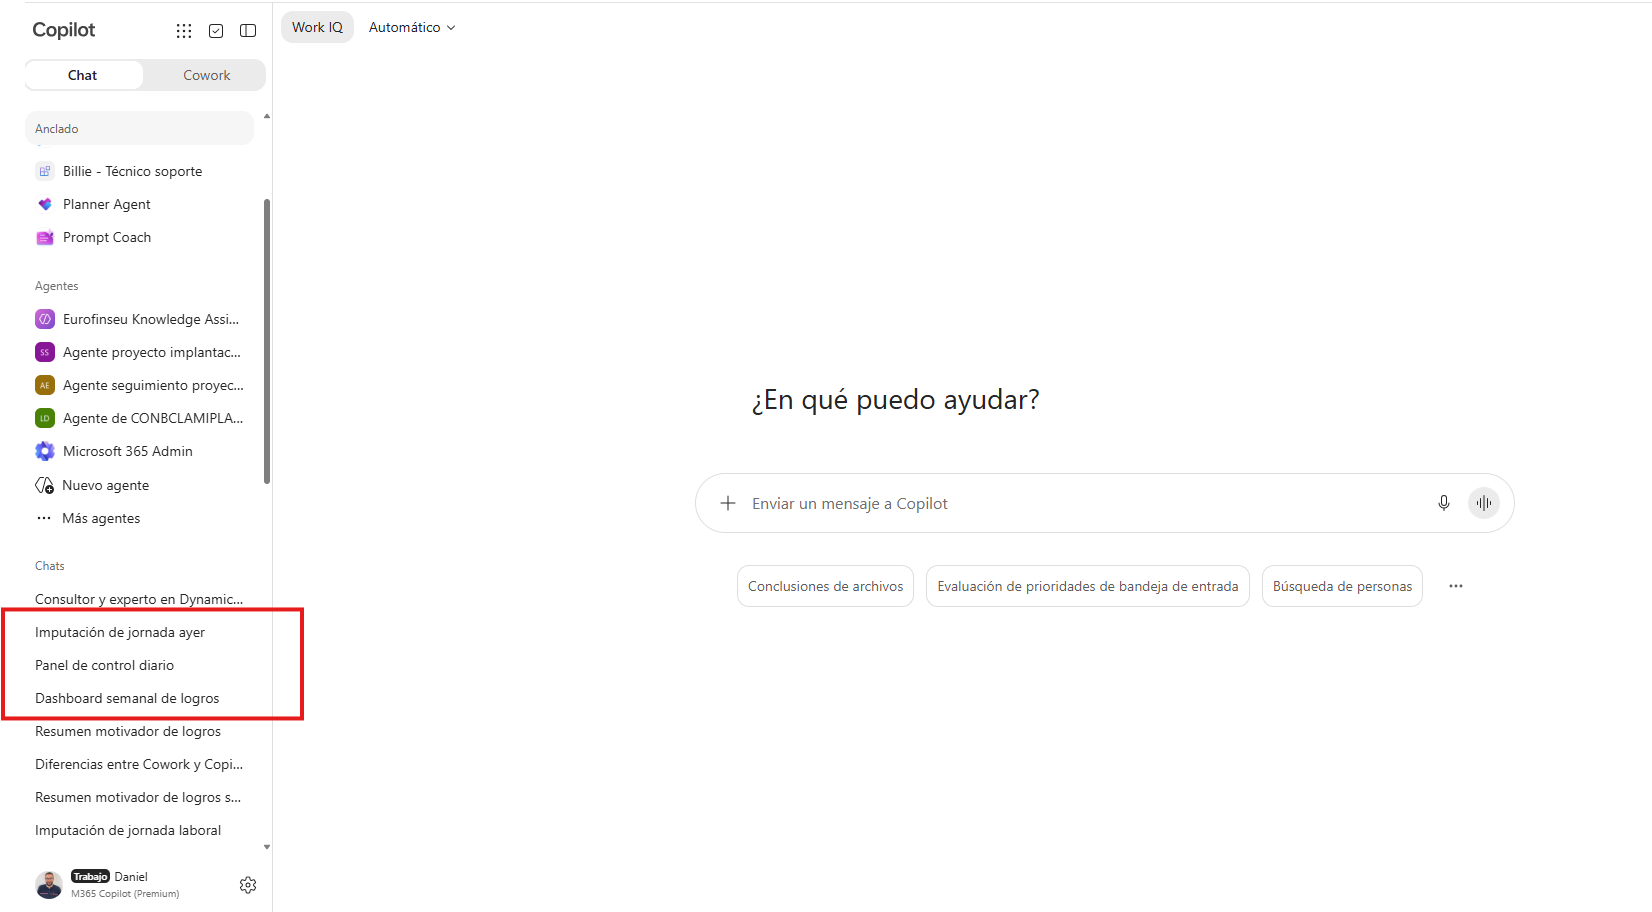
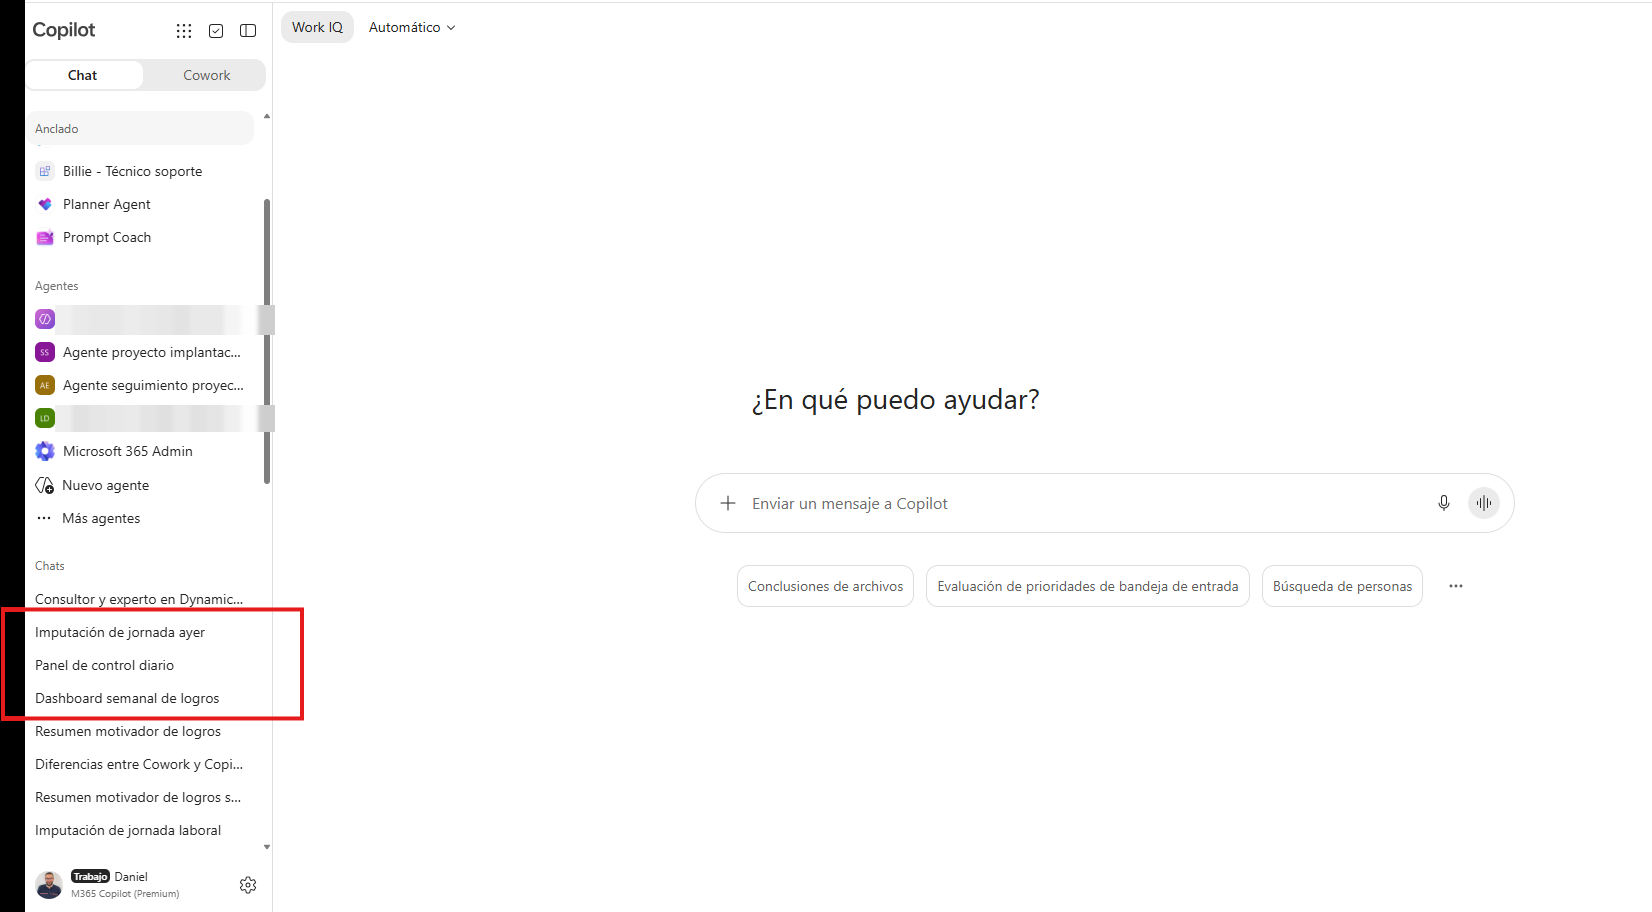
actualizo la publicación

Changed region(s): [[0.0, 0.0, 0.1852, 1.0], [0.1544, 0.3377, 0.1852, 0.3684]]

diff --git a/_posts/2026-09-18-indicaciones-programadas-copilot.md b/_posts/2026-09-18-indicaciones-programadas-copilot.md
@@ -34,10 +34,42 @@ El botón **Nuevo**, arriba a la derecha, abre el formulario de creación.
 
 El formulario tiene dos partes. La primera es la propia indicación: el texto exacto que le pasarías a Copilot si abrieras un chat normal. Por ejemplo, para un dashboard semanal:
 
-> Dashboard de logros y victorias de la semana. Revisa mis reuniones, chats, correos electrónicos, documentos, tareas y grabaciones de esta semana.
+```text
+Dashboard de logros y victorias de la semana
+
+Revisa mis reuniones, chats, correos electrónicos, documentos, tareas y grabaciones de esta semana.
+
+No te limites a resumir la actividad reciente. Analiza el impacto y el valor aportado.
+
+Identifica y destaca:
+- Proyectos estratégicos en los que he trabajado.
+- Implantaciones Business Central en curso.
+- Clientes con mayor avance esta semana.
+- Decisiones importantes tomadas.
+- Reuniones relevantes y acuerdos alcanzados.
+- Documentación creada o actualizada.
+- Planificaciones, convocatorias o iniciativas puestas en marcha.
+- Problemas desbloqueados o riesgos mitigados.
+- Coordinación de equipos o asignación de recursos.
+- Actividades de liderazgo, gestión de proyectos y dirección funcional.
+
+Presta especial atención a cualquier cliente o proyecto que haya tenido actividad significativa esta semana.
+
+No clasifiques por correos o reuniones individuales. Agrupa por proyectos y logros.
+
+Devuelve:
+- Resumen ejecutivo de la semana.
+- Top 5 victorias más importantes.
+- Proyectos con mayor avance.
+- Contribuciones de liderazgo y gestión.
+- Logros técnicos y funcionales.
+- Mensaje final motivador valorando el impacto de mi trabajo.
+
+Prioriza siempre impacto, avance y valor generado frente a volumen de actividad.
+```
 
 ![Formulario de creación de una programación con el cuadro de indicación remarcado](04-indicacion-texto.png){: w="1019" h="768" .shadow }
-*El cuadro de indicación admite el mismo nivel de detalle que un prompt escrito a mano en el chat.*
+*El cuadro de indicación tiene scroll y admite un prompt tan largo como el de arriba, aunque en la captura solo se vea el arranque.*
 
 La segunda parte es la programación en sí: cuándo empieza, con qué frecuencia se repite —diaria, semanal o mensual— y hasta cuándo.
 
@@ -71,7 +103,7 @@ En mi caso tengo tres indicaciones activas, cada una resolviendo un hueco distin
 - **Imputación de la jornada de ayer**, para no dejar que se acumulen varios días de trabajo sin repartir entre clientes y proyectos.
 - **Resumen de logros y victorias de la semana**, en positivo, cada viernes, para cerrar la semana viendo lo que sí ha salido bien y no solo lo que ha quedado pendiente.
 
-Ninguna de las tres es especialmente compleja como prompt suelto. Lo que cambia es que ahora no tengo que acordarme de lanzarlas: se ejecutan solas y me avisan cuando están listas.
+El de la mañana y el de la imputación son un par de líneas; el de los viernes, como acabas de ver, es bastante más largo porque le pido que agrupe, priorice y valore el impacto, no que se limite a listar actividad. En los tres casos cambia lo mismo: ya no tengo que acordarme de lanzarlas, se ejecutan solas y me avisan cuando están listas.
 
 ## Mi recomendación práctica
 
